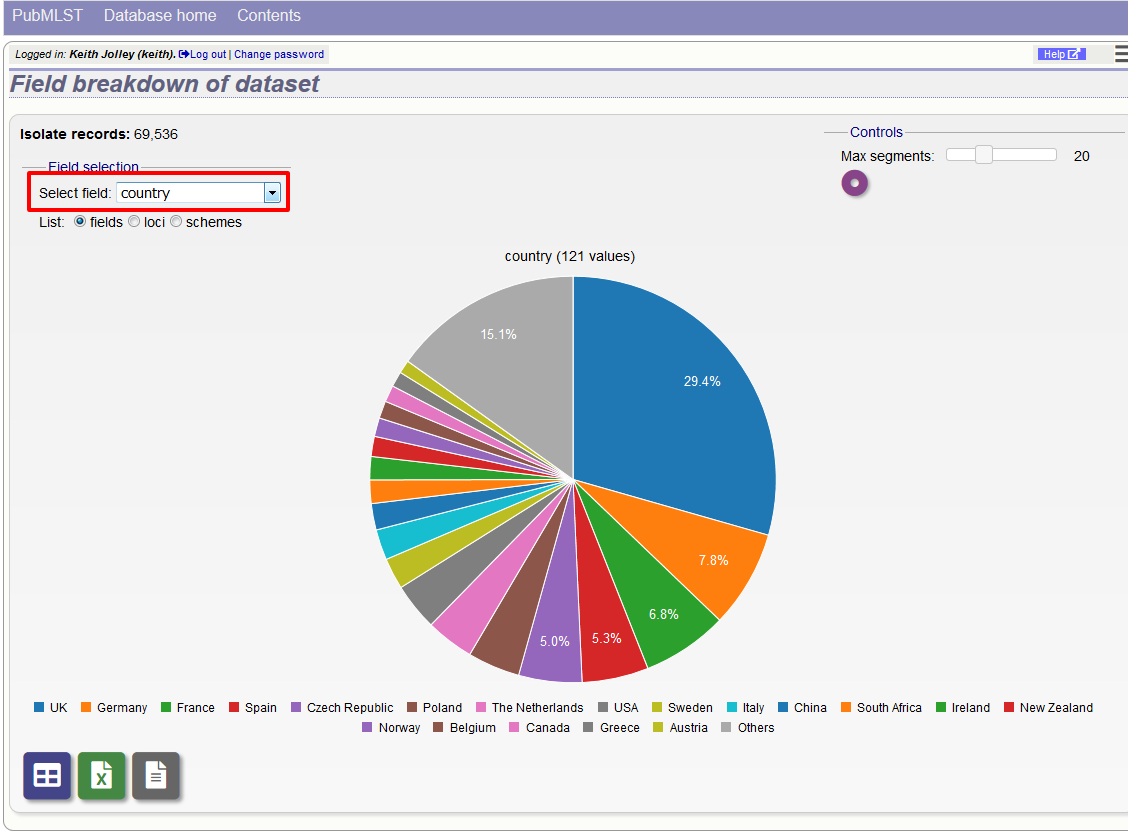
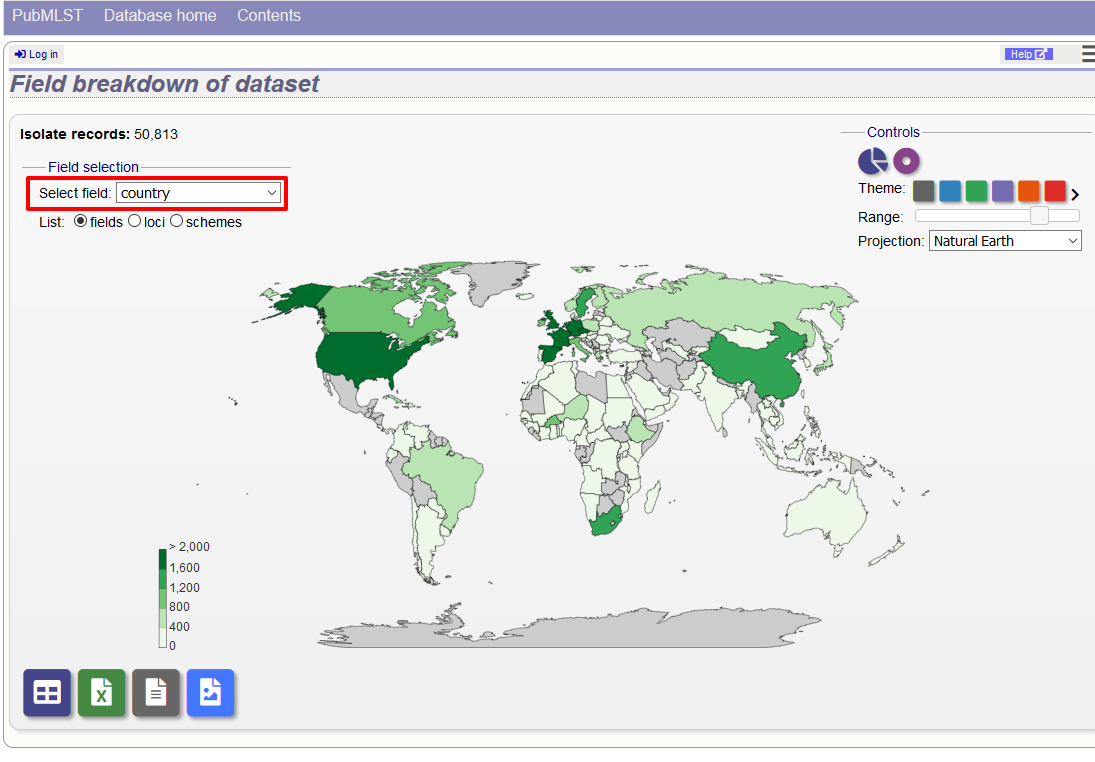
Add maps to FieldBreakdown plugin.

diff --git a/data_analysis/field_breakdown.rst b/data_analysis/field_breakdown.rst
@@ -19,7 +19,9 @@ depending on the setup of the database.
 
 .. image:: /images/data_analysis/field_breakdown2.png
 
-A chart will be displayed for the first field.
+A chart will be displayed for the first field. Depending on the field type,
+this may be either a world map (for country or continent fields), pie chart,
+or bar chart.
 
 .. image:: /images/data_analysis/field_breakdown3.png
 
@@ -34,6 +36,32 @@ This will re-populate the dropdown list.
 
 The charts are dynamic and you can manipulate some aspects of them using
 controls shown on the screen.
+
+Maps
+====
+World maps are shown for country and continent fields (provided standardized
+country names are used in the database). The maps can be modified in a number
+of ways.
+
+The colour theme can be changed by clicked the appropriate coloured square.
+Additional themes are available by clicking the '>' link.
+
+.. image:: /images/data_analysis/field_breakdown5a.png
+
+The range that is used to decide the colour boundaries can be changed by using
+the range slider.
+
+.. image:: /images/data_analysis/field_breakdown5b.png
+
+Finally the map projection can be changed. The default 'Natural Earth' provides
+a reasonable display for most latitudes but you may prefer others such as 
+'Mercator'.
+
+.. image:: /images/data_analysis/field_breakdown5c.png
+
+To see the same data as a pie chart, click the 'Pie' or 'Donut' icons.
+
+.. image:: /images/data_analysis/field_breakdown5d.png
 
 Pie charts
 ==========
